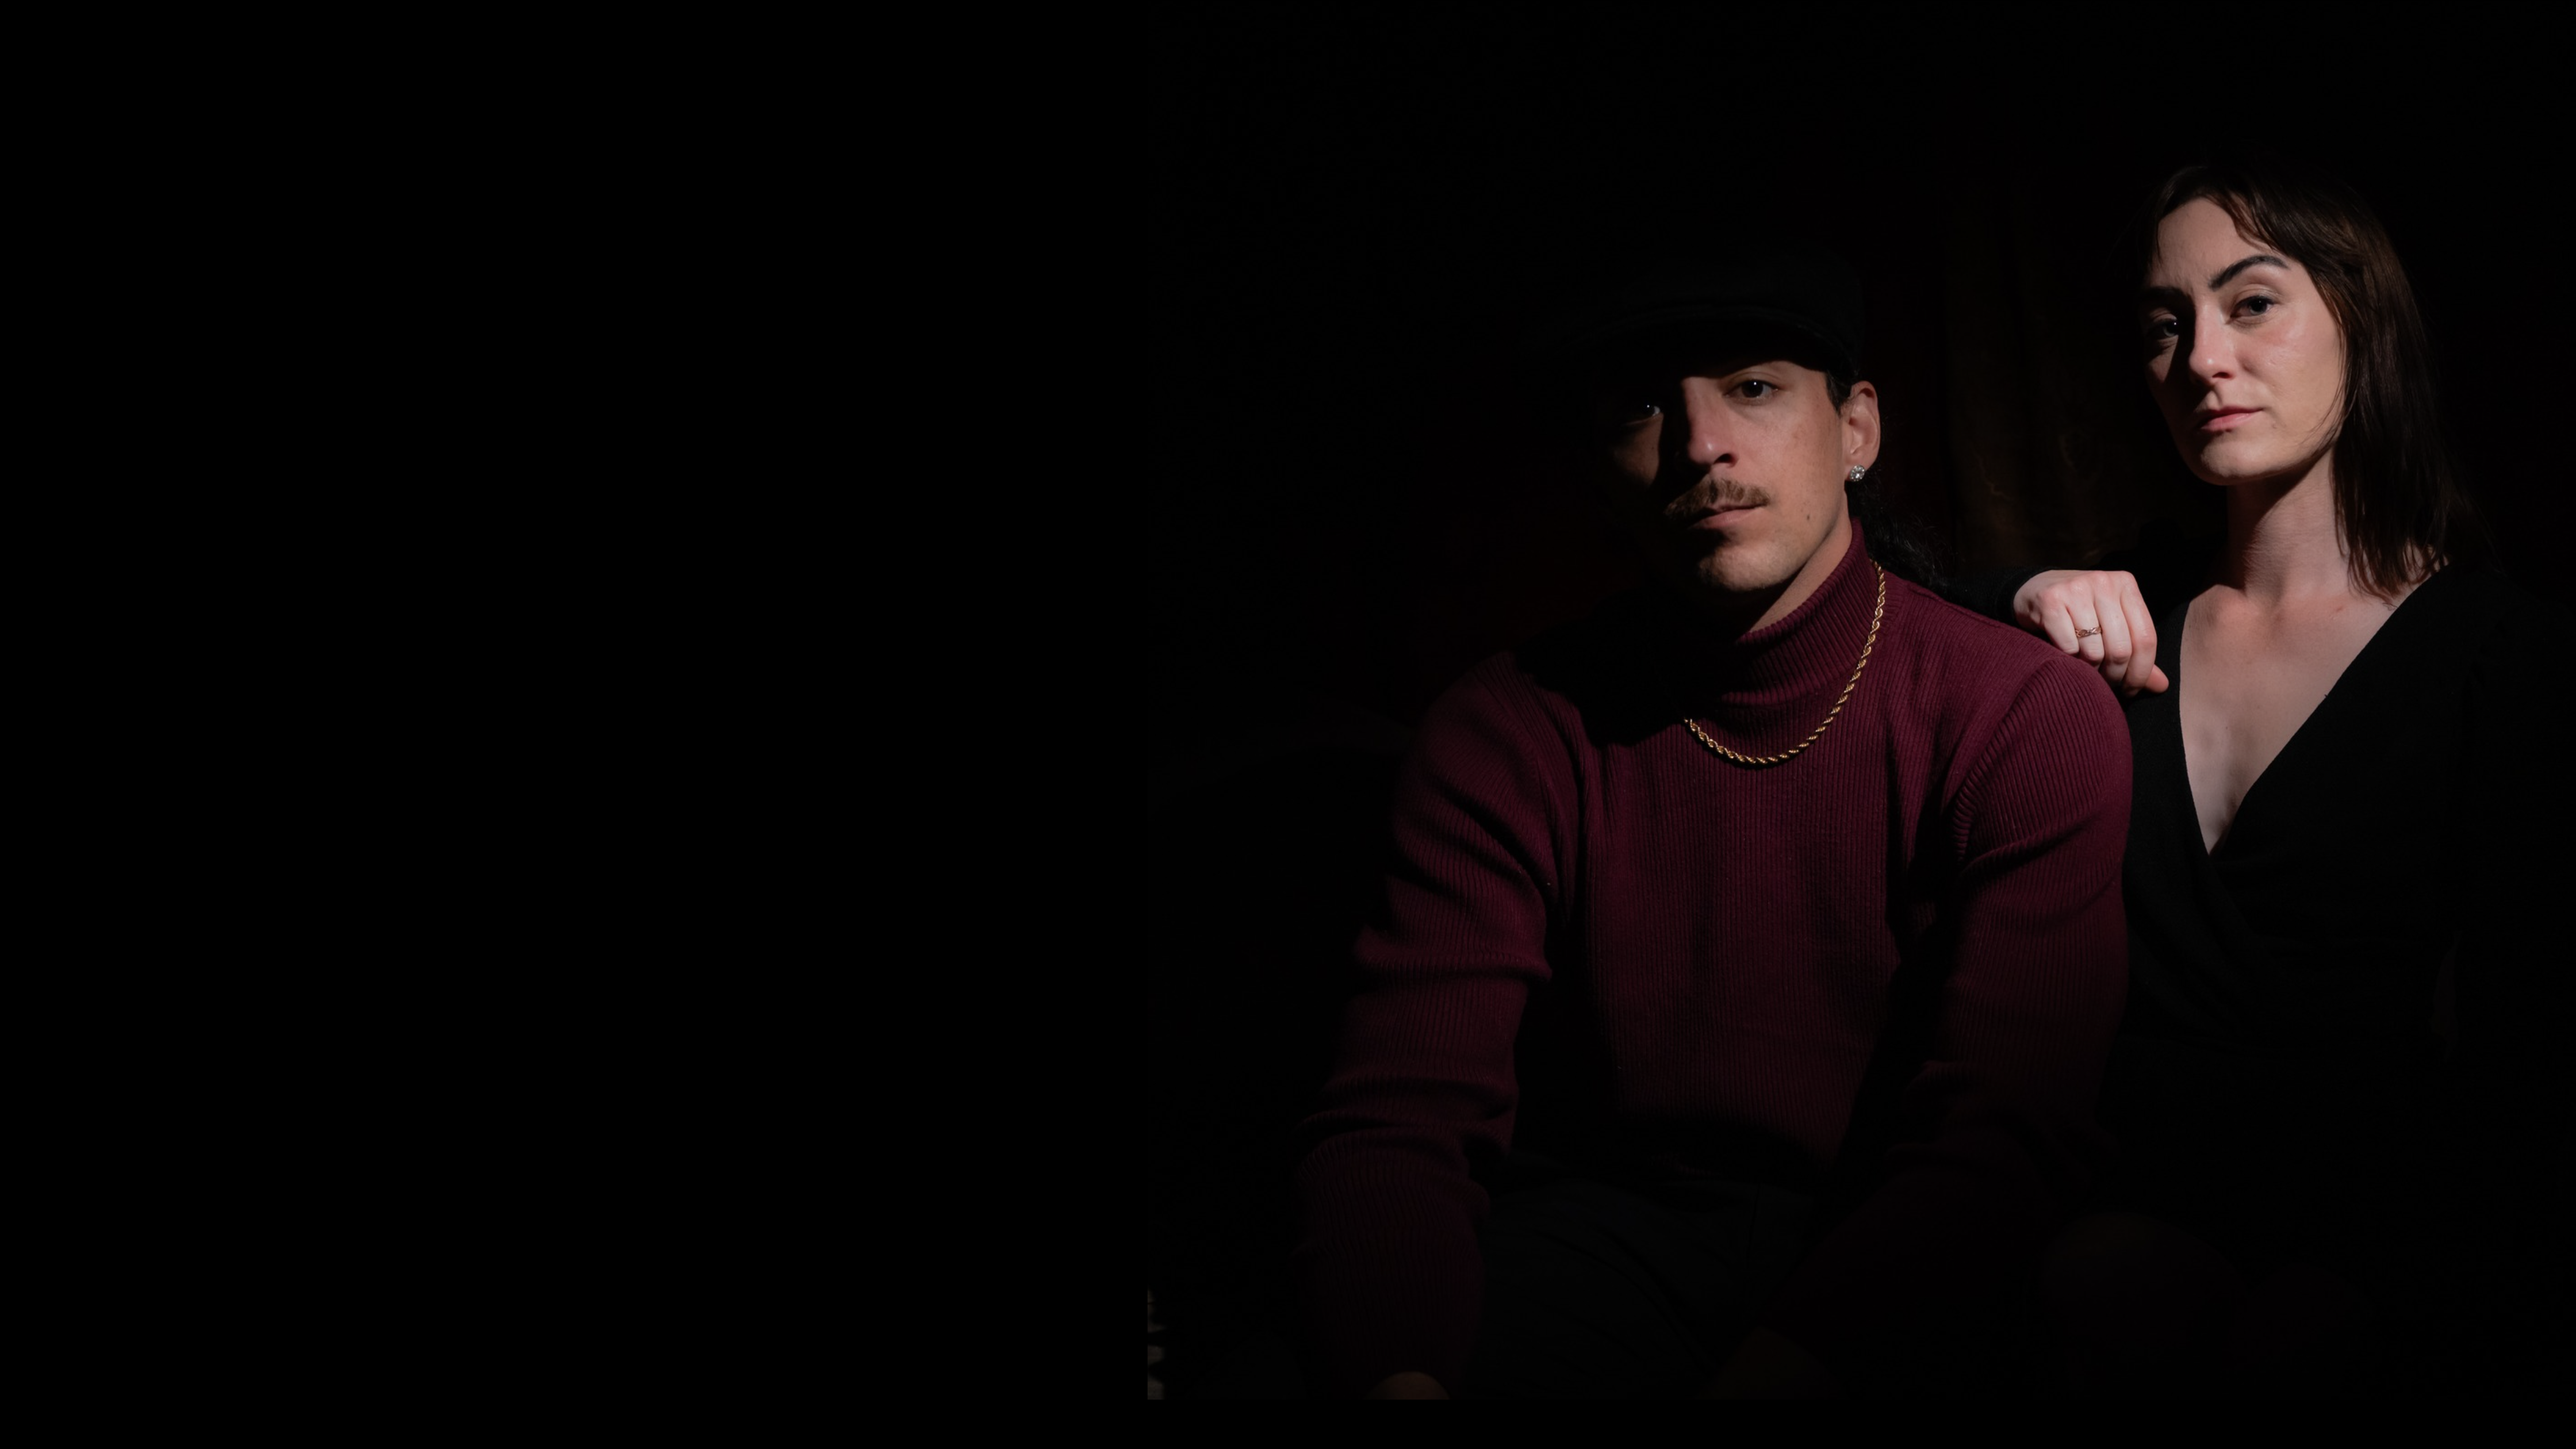
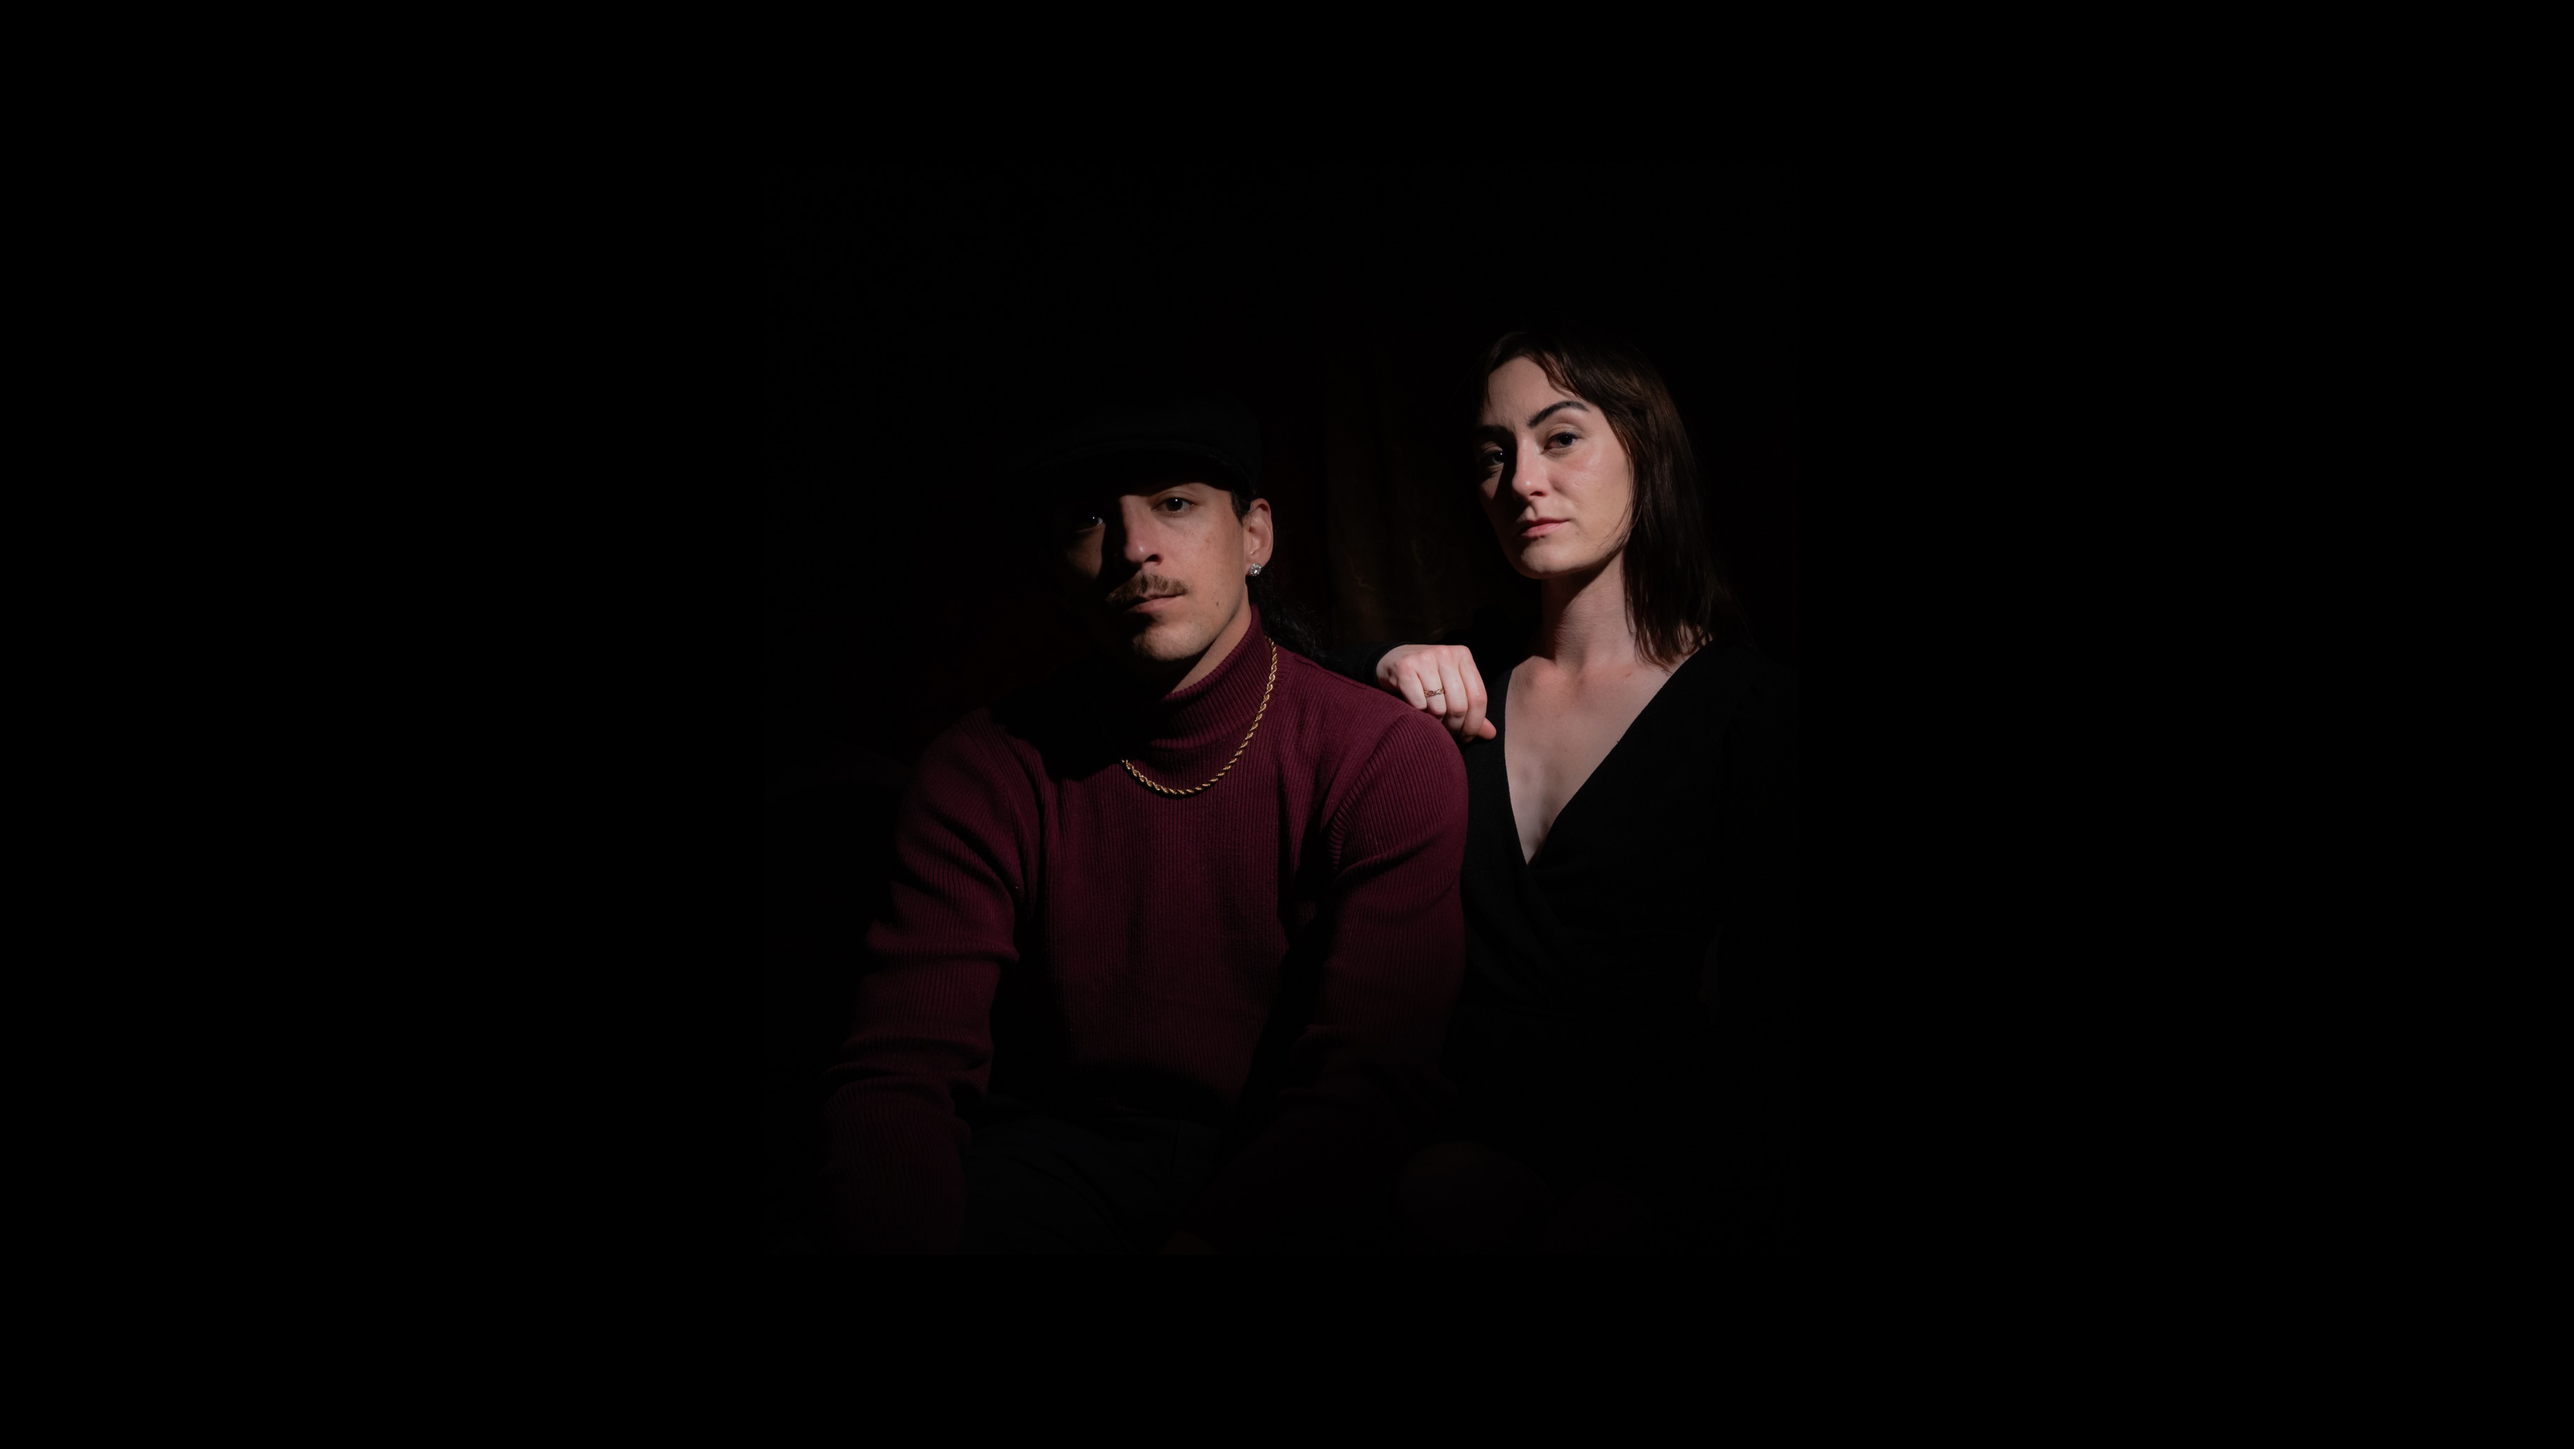
Update hero image and fix background positioning for desktop and mobile

Changed region(s): [[0.3414, 0.1238, 0.9623, 0.7429]]

diff --git a/src/components/sections/HeroSection.tsx b/src/components/sections/HeroSection.tsx
@@ -15,15 +15,21 @@ export default function HeroSection() {
       style={{ backgroundColor: '#0D0D0D' }}
     >
       {/* Full-bleed background image */}
-      <div
-        className="absolute inset-0"
-        style={{
-          backgroundImage: 'url(/assets/pictures/hero-bg.png)',
-          backgroundSize: 'cover',
-          backgroundPosition: '80% center',
-          opacity: 1,
-        }}
-      />
+      <style>{`
+        .hero-bg {
+          background-image: url(/assets/pictures/hero-bg.png);
+          background-size: cover;
+          background-position: center center;
+          background-repeat: no-repeat;
+        }
+        @media (max-width: 767px) {
+          .hero-bg {
+            background-size: cover;
+            background-position: center center;
+          }
+        }
+      `}</style>
+      <div className="hero-bg absolute inset-0" />
       {/* Left gradient so text stays legible */}
       <div
         className="absolute inset-0"
